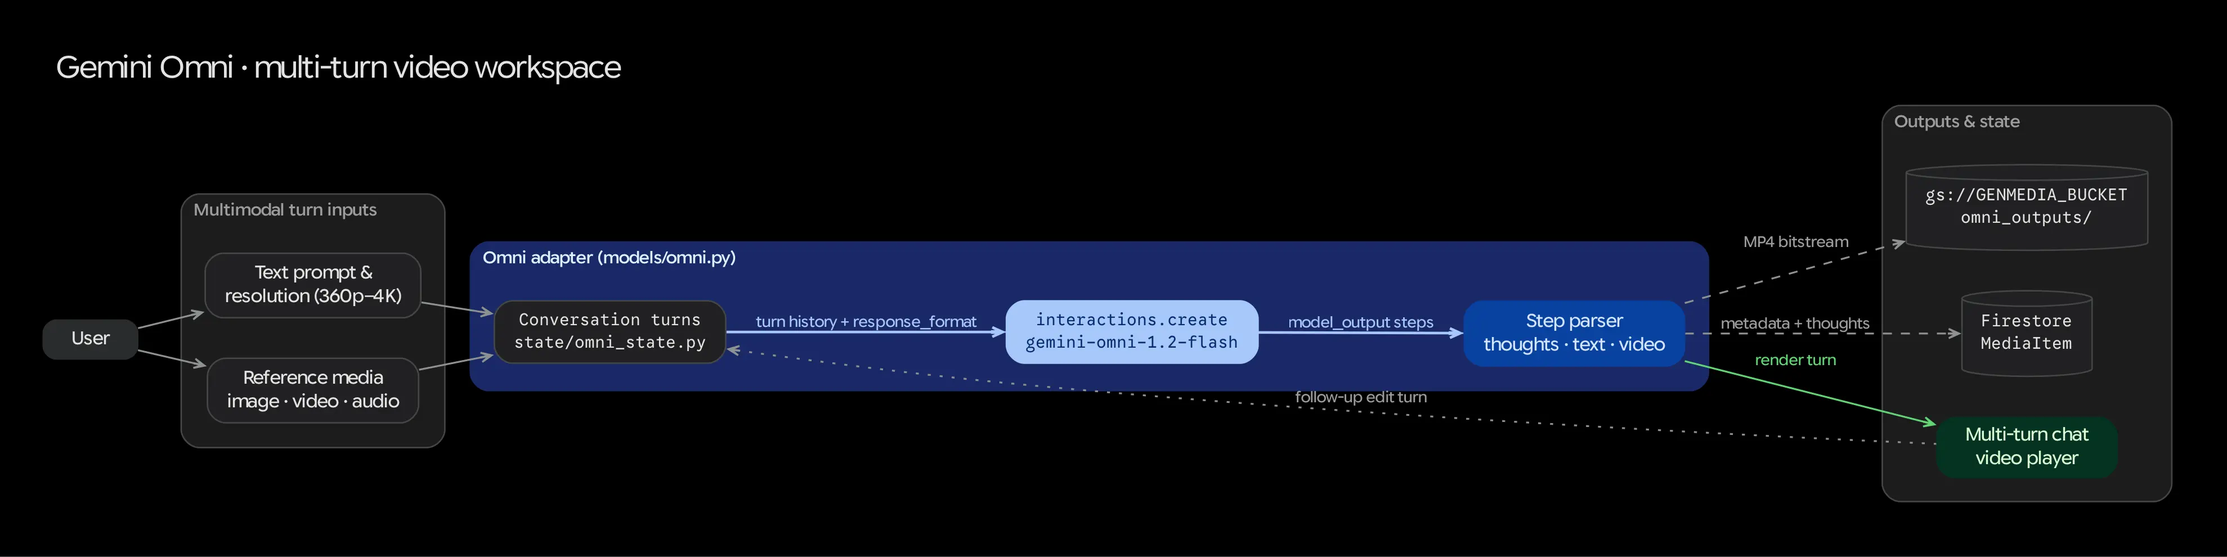
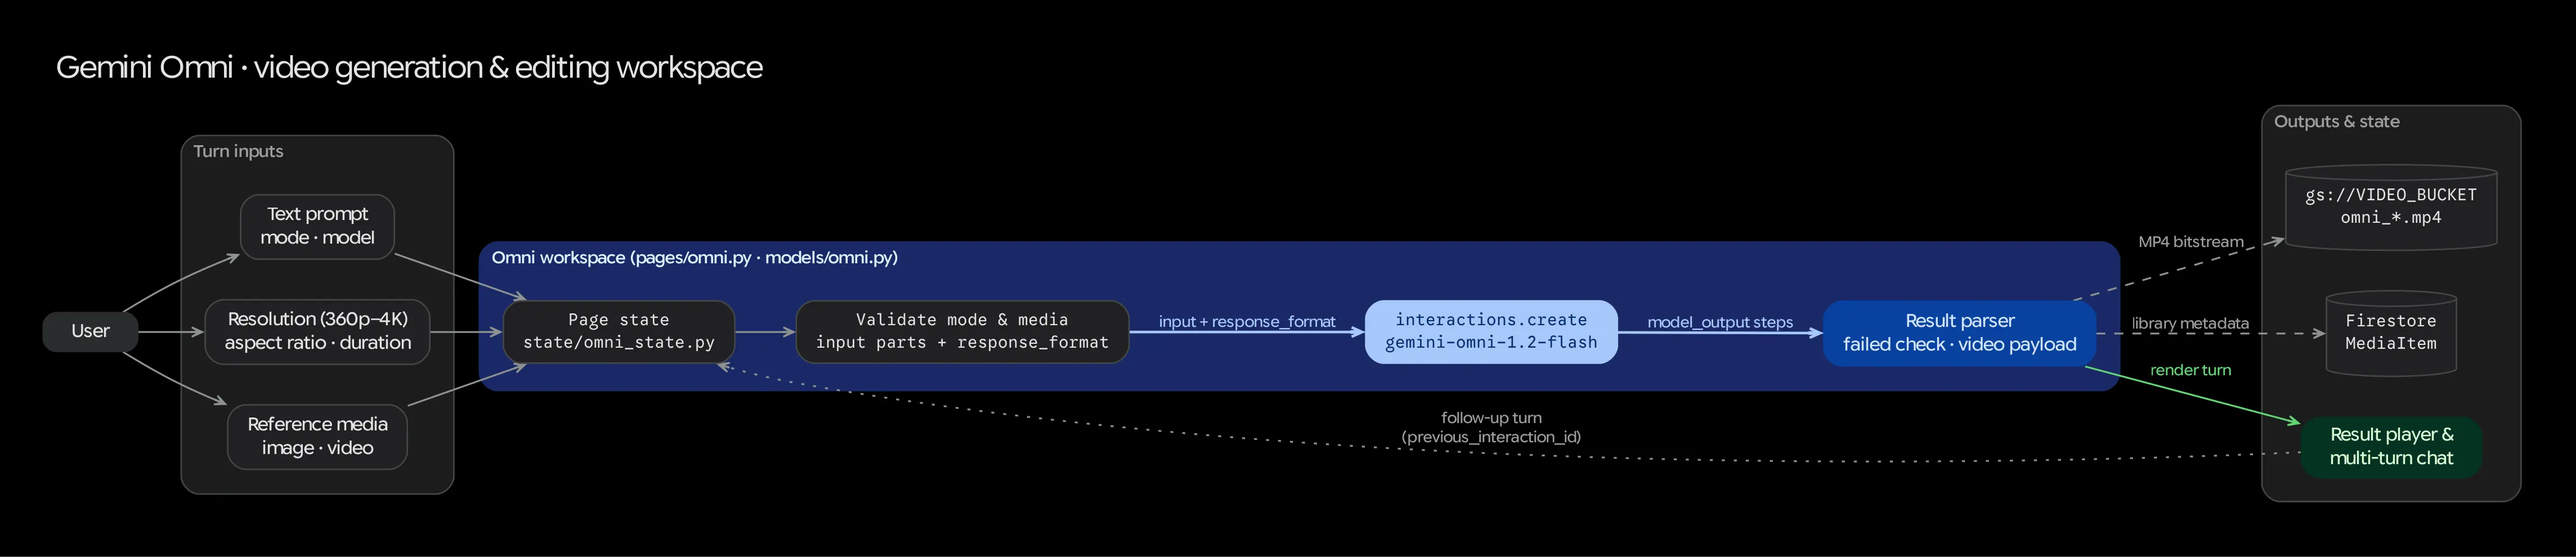
docs(core): rewrite Gemini Omni page for the video workspace (#2138)
The page described an interleaved text/image/audio workspace
(generate_omni_content, OmniPageState, image_config) that does not exist.
Rewrite it for the real feature: a video generation and editing workspace
on the Interactions API with six modes (t2v, i2v, ref2v, edit, extend,
upscale), model-aware controls, request lifecycle, multi-turn chat, and
configuration, with every named symbol checked against the code.

Also correct the Omni blurbs in foundation-models/index.md and usage.md,
and redraw foundation-gemini-omni.dot (light/dark webp).

Tracked in gmcs-9iq.

Changed region(s): [[0.0, 0.1818, 0.9947, 0.9091], [0.0, 0.0909, 0.3108, 0.1515], [0.5595, 0.697, 0.6528, 0.8182]]

diff --git a/docs-site/src/content/docs/core/foundation-models/gemini-omni.md b/docs-site/src/content/docs/core/foundation-models/gemini-omni.md
@@ -1,57 +1,75 @@
 ---
 title: "Gemini Omni"
-description: "Interleaved multimodal text, image, and audio generation workspace powered by the Vertex AI Interactions API."
+description: "Video generation and editing workspace powered by Gemini Omni and the Vertex AI Interactions API: text, image and reference to video, edit, extend, upscale, and multi-turn refinement."
 ---
 
-The **Gemini Omni** workspace (`/gemini-omni`) provides a unified canvas for **interleaved multimodal generation** using `gemini-omni-1.2-flash`. Unlike single-modality endpoints, Gemini Omni accepts mixed combinations of text, reference images, and audio inputs and produces interleaved responses containing rich markdown text, synthesized images, and audio outputs in a single turn.
+The **Gemini Omni** workspace (`/gemini-omni`) is a video generation and editing studio built on the Vertex AI **Interactions API**. It defaults to `gemini-omni-1.2-flash`; Gemini Omni 1.1 (`gemini-omni-1.1-flash-preview`) stays selectable from the model dropdown. One page covers six modes, and every result can be refined in a multi-turn chat thread.
 
 ![Gemini Omni Interaction Architecture](../assets/diagrams/foundation-gemini-omni-light.webp)
 
-## Video Modes (`gemini-omni-1.2-flash`)
+## Modes
 
-`gemini-omni-1.2-flash` is the default model on the `/gemini-omni` page. Gemini Omni 1.1 (`gemini-omni-1.1-flash-preview`) remains selectable from the model dropdown. The mode list is model-aware (`config/omni_models.py`):
+The mode list is model-aware (`modes_for_model()` in `config/omni_models.py`):
 
 | Mode | Inputs | Notes |
 | :--- | :--- | :--- |
-| Text to video | Prompt | |
-| Image to video | Prompt + image | |
-| Reference to video | Prompt + reference images | |
-| Edit video | Prompt + video | Output length matches the input video. |
-| Extend video | Prompt + video | 1.2 only. Sends `generation_config.video_config.task="extend"`. |
-| Upscale video | Video only | 1.2 only. Sends `video_config.task="upscale"`, no text part. Terminal: no chat follow-up. Target resolution `1080p` or `4k`. |
+| Text to video (`t2v`) | Prompt | |
+| Image to video (`i2v`) | Prompt + one image | The image is required. |
+| Reference to video (`ref2v`) | Prompt + reference images | At least one image is required. The page accepts up to 3 (`MAX_R2V_REFERENCES`). |
+| Edit video (`edit`) | Prompt + video | A base video is required. Output length matches the input video. |
+| Extend video (`extend`) | Prompt + video | 1.2 only. Sends `generation_config.video_config.task="extend"`. Output is the input plus a fixed extra span. |
+| Upscale video (`upscale`) | Video only | 1.2 only. Sends `video_config.task="upscale"` and **no text part** (the API rejects text for this task). Output is `1080p` or `4k`. Terminal: no chat follow-up. |
 
-Duration is 3–15 seconds on 1.2 (3–10 seconds on 1.1). Aspect ratios are `16:9` and `9:16`. Resolutions are `360p`, `720p` (default), `1080p`, and `4k`.
+Only `extend` and `upscale` send an explicit task (`EXPLICIT_TASK_MODES`). For every other mode the model infers the task from the inputs. Media inputs are validated before any billable call by `find_missing_required_media()`, which also disables the **Generate Video** button.
+
+## Controls
+
+| Control | Values | Notes |
+| :--- | :--- | :--- |
+| Model | 1.2 Flash (default), 1.1 Flash (Preview) | Switching model keeps the current mode and duration if the new model supports them; otherwise it falls back to `t2v` and clamps the duration (`clamp_duration()`). |
+| Resolution | `360p`, `720p` (default), `1080p`, `4k` | Always sent. For upscale it is the target resolution. |
+| Aspect ratio | `16:9`, `9:16` | Disabled for `extend` and `upscale` (the framing follows the input video). |
+| Duration | 3–15 s on 1.2, 3–10 s on 1.1 | Disabled for `extend`, hidden for `upscale` (the length follows the input video). |
+
+Once a conversation has started, all generation settings are locked so the thread stays consistent. Use **Reset Chat** to change them.
 
 ## Source Architecture
 
 | Layer | File Path | Responsibility |
 | :--- | :--- | :--- |
-| **Mesop Page & State** | `pages/omni.py` (`OmniPageState`) | Interactive workspace UI, multimodal uploaders (images & audio), resolution selector, and interleaved output renderer. |
-| **Model Adapter** | `models/omni.py` (`generate_omni_content`) | Translates multimodal inputs into Vertex AI Interactions API payloads (`client.interactions.create`), streams or unpacks interleaved output turns, and uploads generated media to GCS. |
-| **Configuration** | `config/default.py` | Configures the Interactions API client (`api_version="v1beta1"`) and default GCS bucket (`GENMEDIA_BUCKET`). |
+| **Mesop page** | `pages/omni.py` | Workspace UI: mode, model and settings panel, media uploaders, result player, and the chat thread (`on_send_chat_turn`, `on_reset_chat`). |
+| **Page state** | `state/omni_state.py` (`PageState`) | Mode, model, resolution, aspect ratio, duration, reference media, `previous_interaction_id`, and the chat history as JSON strings (`chat_history_json`, `chat_messages_json`). |
+| **Model adapter** | `models/omni.py` | `generate_omni_video()`, `get_omni_client()`, `_build_input_parts()`, `_build_video_response_format()`, `_extract_video_payload()`, `_save_video_to_gcs()`. |
+| **Model registry** | `config/omni_models.py` | `OMNI_MODELS` is the single source of truth for each model's modes, aspect ratios, resolutions and duration range. The UI builds its dropdowns from it. |
+| **Request contract** | `models/requests.py` (`OmniVideoGenerationRequest`) | Prompt, duration, aspect ratio, resolution, mode, model, reference media URIs, and multi-turn context. |
+| **Configuration** | `config/default.py` | `OMNI_MODEL_ID`, `DEFAULT_OMNI_MODEL_NAME`, `OMNI_PROJECT_ID`, `OMNI_LOCATION`, `OMNI_TIMEOUT_MS`. |
 
-## Key Capabilities & Controls
+## Request Lifecycle
 
-### 1. Multimodal Reference Inputs
-Users can combine a natural-language prompt with multiple reference assets uploaded from disk or selected from the Studio Library:
-* **Image Inputs:** Up to multiple reference images (`image/png`, `image/jpeg`, `image/webp`) converted from `gs://` URIs and passed as inline byte payloads (`{"type": "image", "data": ..., "mime_type": ...}`).
-* **Audio Inputs:** Reference voice or audio clips (`audio/wav`, `audio/mpeg`, `audio/mp3`) passed as `{"type": "audio", "data": ..., "mime_type": ...}` for audio-conditioned reasoning or response synthesis.
+`generate_omni_video()` runs synchronously inside `track_model_call()`:
 
-### 2. Output Resolution Selector (`360p` to `4k`)
-When generating visual assets within an interleaved turn, the workspace exposes an output resolution selector in `OmniPageState.resolution`:
-* Supported tiers: `360p`, `720p`, `1080p` (default), and `4k`.
-* Passed via `generation_config={"image_config": {"image_size": resolution}}` inside `client.interactions.create()`.
+1. **Validate.** The model must exist in the registry and support the requested mode, and the mode's required media must be present (`MissingMediaError`, `GenerationError` with `INVALID_ARGUMENT`).
+2. **Client.** `get_omni_client()` returns a cached `genai.Client(enterprise=True, project=OMNI_PROJECT_ID, location=OMNI_LOCATION)` (default `global`) with an `OMNI_TIMEOUT_MS` timeout (default 10 minutes).
+3. **Input.** `_build_input_parts()` builds the input list: the prompt (omitted for upscale) followed by the mode's media as `gs://` URI parts. Multi-turn requests instead replay `chat_history_json` and append the new prompt.
+4. **Output format.** `_build_video_response_format()` sends `resolution` for every mode. For text, image, reference and multi-turn requests it also sends `aspect_ratio` and `duration` (as `"<N>s"`). Edit, extend and upscale send resolution only, because their framing and length come from the input video (an edit with a mismatched duration is rejected with a 400). Aspect ratio and duration are never written into the prompt text.
+5. **Call.** `client.interactions.create(model=..., input=..., response_format=[...], previous_interaction_id=..., generation_config=...)`. `generation_config` carries `video_config.task` only for extend and upscale.
+6. **Extract.** `_extract_video_payload()` first raises a `GenerationError` for failed interactions (`failed`, `cancelled`, `incomplete` or `budget_exceeded`) using the API's `errors` detail. Otherwise it reads the video from the `model_output` steps. `errors` on a completed interaction is diagnostic only.
+7. **Persist.** `_save_video_to_gcs()` decodes the MP4 and uploads it with `store_to_gcs()`. The page then records a `MediaItem` (`mime_type="video/mp4"`, with the prompt, aspect ratio, resolution and model) via `add_media_item_to_firestore()`, so every result appears in the Studio Library.
 
-### 3. Thought Summaries (`thought` Turns)
-Gemini Omni exposes intermediate reasoning steps before emitting its final interleaved media:
-* Any output block marked with `output.type == "thought"` or `getattr(output, "thought", False)` is captured into `thought_text` and displayed in a collapsible **Model Thoughts** accordion in the UI so users can inspect how the model planned its visual and textual layout.
+Errors surface as `GenerationError` and are shown in the page's error dialog.
 
-## Request Lifecycle (`models/omni.py`)
+## Multi-turn Chat Thread
 
-1. **Client Initialization:** `get_omni_client()` initializes a `genai.Client(vertexai=True, project=cfg.PROJECT_ID, location="global", http_options=HttpOptions(api_version="v1beta1"))`.
-2. **Input Assembly:** `generate_omni_content()` downloads any referenced `gs://` images or audio clips into memory, base64-encodes the binary payloads, and appends the user's text prompt to the `inputs` list.
-3. **Interactions API Call:** Invokes `client.interactions.create(model="gemini-omni-1.2-flash", input=inputs, response_modalities=["text", "image"], generation_config=...)` inside `track_model_call()`.
-4. **Interleaved Output Parsing & Persistence:**
-   * `text` blocks are appended in order (`{"type": "text", "text": ...}`).
-   * `image` and `audio` blocks are decoded from base64, uploaded to `gs://<GENMEDIA_BUCKET>/omni_outputs/` via `store_to_gcs()`, and returned as ordered items in `outputs`.
-   * The complete interleaved sequence (`outputs` JSON, `thought_text`, input references, and generation duration) is persisted as a single `MediaItem` (`media_type="omni"`) in Firestore so the entire multimodal turn can be replayed from the Studio Library.
+After a non-upscale generation the page keeps the returned interaction ID in `previous_interaction_id` and the turn history in `chat_history_json`. Each follow-up (**Send**) calls the same `generate_omni_video()` with `previous_interaction_id` set; earlier model videos are re-read from GCS and resent as base64 (`_resolve_gcs_uris_in_history()`). Per-mode media requirements do not apply to follow-up turns. **Upscale** is terminal: it produces a library item but starts no thread.
+
+## Configuration
+
+| Variable | Default | Purpose |
+| :--- | :--- | :--- |
+| `DEFAULT_OMNI_MODEL_NAME` | `gemini-omni-1.2-flash` | Model preselected on the page (resolved through the registry). |
+| `OMNI_MODEL_ID` | `gemini-omni-1.2-flash` | Defined in config but not read by the page; the preselected model comes from `DEFAULT_OMNI_MODEL_NAME`. |
+| `OMNI_PROJECT_ID` | `PROJECT_ID` | Project that owns the Omni quota and billing. |
+| `OMNI_LOCATION` | `global` | Omni is served from the `global` endpoint. |
+| `OMNI_TIMEOUT_MS` | `600000` | Client and request timeout. |
+
+To add a new Omni model version, add an `OmniModelConfig` entry to `OMNI_MODELS` in `config/omni_models.py`; the mode, resolution and duration controls follow automatically.

diff --git a/docs-site/src/content/docs/core/foundation-models/index.md b/docs-site/src/content/docs/core/foundation-models/index.md
@@ -11,7 +11,7 @@ GenMedia Creative Studio provides dedicated, interactive workspaces for explorin
 
 | Workspace | Route | Primary Models (`config/`) | Key Capabilities |
 | :--- | :--- | :--- | :--- |
-| **[Gemini Omni](/genmedia-creative-studio/core/foundation-models/gemini-omni/)** | `/gemini-omni` | `gemini-omni-1.2-flash` | Interleaved multimodal text, image, and audio generation via the Vertex AI Interactions API (`interactions.create`) with resolution controls (`360p`–`4k`) and thought summaries. |
+| **[Gemini Omni](/genmedia-creative-studio/core/foundation-models/gemini-omni/)** | `/gemini-omni` | `gemini-omni-1.2-flash` (default), `gemini-omni-1.1-flash-preview` | Video generation and editing via the Vertex AI Interactions API (`interactions.create`): Text-to-Video, Image-to-Video, Reference-to-Video, video Edit, Extend and Upscale (1.2), with resolution (`360p`–`4k`), aspect ratio and duration controls and a multi-turn refinement chat. |
 | **[Veo](/genmedia-creative-studio/core/foundation-models/veo/)** | `/veo` | `veo-3.1-generate-001`, `veo-3.1-fast-generate-001`, `veo-3.1-lite-generate-001`, `veo-3.0-*`, `veo-2.0-*` | Asynchronous long-running operation (`generate_videos`) video synthesis across Text-to-Video (T2V), Image-to-Video (I2V), First/Last Frame Interpolation, Reference-to-Video (R2V), and Video Extension. |
 | **[Gemini Image Generation (Nano Banana)](/genmedia-creative-studio/core/foundation-models/nano-banana/)** | `/nano-banana` | `gemini-3.1-flash-image-preview` (Nano Banana 2), `gemini-3.1-flash-image-lite-preview` (2 Lite), `gemini-3-pro-image-preview` (Pro), `gemini-2.5-flash-image` | Conversational image generation and multi-reference editing (`up to 14` reference images), `1K`/`2K`/`4K` output sizing, aspect ratio controls, and Google Search grounding. |
 | **[Lyria](/genmedia-creative-studio/core/foundation-models/lyria/)** | `/lyria` | `lyria-002`, `lyria-3-clip-preview`, `lyria-3-pro-preview` | Instrumental and vocal music synthesis supporting text prompts, custom lyrics, image conditioning, and C2PA provenance metadata preservation. |
@@ -40,7 +40,7 @@ Every direct foundation model workspace in the core application (`main.py`) shar
 ### 3. Vertex AI & Cloud AI API Dispatch
 Depending on the model family, adapters in `models/` invoke one of three primary Google Cloud API patterns via `google.genai.Client` or `google-cloud-texttospeech`:
 1. **Unary `models.generate_content` / `models.predict`:** Used by Gemini Image Generation (Nano Banana), Gemini TTS, Gemini Writers Workshop, and Lyria 2 (`lyria-002`).
-2. **Vertex AI Interactions API (`client.interactions.create`):** Used by Gemini Omni (`gemini-omni-1.2-flash`) and Lyria 3 (`lyria-3-clip-preview`, `lyria-3-pro-preview`) for multimodal turn interactions and C2PA-signed media payloads.
+2. **Vertex AI Interactions API (`client.interactions.create`):** Used by Gemini Omni (`gemini-omni-1.2-flash`) for multi-turn video generation and editing, and by Lyria 3 (`lyria-3-clip-preview`, `lyria-3-pro-preview`) for multimodal turn interactions and C2PA-signed media payloads.
 3. **Asynchronous Long-Running Operations (`models.generate_videos`):** Used by Veo (`models/veo.py`) and the FastAPI `/api/veo/*` router (`routers/veo_router.py`), polling operation status until video bytes or GCS URIs are finalized.
 
 ### 4. Cloud Storage, `/media` Proxy, and Firestore Telemetry

diff --git a/docs-site/src/content/docs/core/usage.md b/docs-site/src/content/docs/core/usage.md
@@ -17,7 +17,7 @@ Interact directly with the underlying generative media models to test prompts, c
     *   **[Gemini Image Generation (Nano Banana)](/genmedia-creative-studio/core/foundation-models/nano-banana/):** Generate and conversationally edit high-resolution (`1K`–`4K`) images with up to 14 reference images and Google Search grounding using Nano Banana 2 (`gemini-3.1-flash-image-preview`), Nano Banana 2 Lite (`gemini-3.1-flash-image-lite-preview`), and Nano Banana Pro (`gemini-3-pro-image-preview`).
     *   **Imagen (Deprecated):** Legacy Imagen 3 and Imagen 4 models are being deprecated across Vertex AI. Use **[Gemini Image Generation (Nano Banana)](/genmedia-creative-studio/core/foundation-models/nano-banana/)** instead. See the [Imagen models migration guide](https://firebase.google.com/docs/ai-logic/imagen-models-migration?api=dev) for the replacement mapping.
 *   **Multimodal & Video Generation:**
-    *   **[Gemini Omni](/genmedia-creative-studio/core/foundation-models/gemini-omni/):** Generate interleaved text, image, and audio turns in a single workspace using `gemini-omni-1.2-flash` via the Vertex AI Interactions API.
+    *   **[Gemini Omni](/genmedia-creative-studio/core/foundation-models/gemini-omni/):** Generate and edit video with `gemini-omni-1.2-flash` via the Vertex AI Interactions API: Text-to-Video, Image-to-Video, Reference-to-Video, Edit, Extend and Upscale, with multi-turn refinement of each result.
     *   **[Veo Video Generation](/genmedia-creative-studio/core/foundation-models/veo/):** Create high-fidelity videos across Text-to-Video, Image-to-Video, First/Last Frame Interpolation, Reference-to-Video (`ASSET` & `STYLE`), and Video Extension using Veo 3.1, Veo 3, and Veo 2.
 *   **Audio, Music & Speech Generation:**
     *   **[Lyria Music Generation](/genmedia-creative-studio/core/foundation-models/lyria/):** Generate instrumental and vocal music tracks from text prompts, custom lyrics, and reference images using Lyria 2 (`lyria-002`) and Lyria 3 (`lyria-3-clip-preview`, `lyria-3-pro-preview`) with C2PA provenance preservation.
